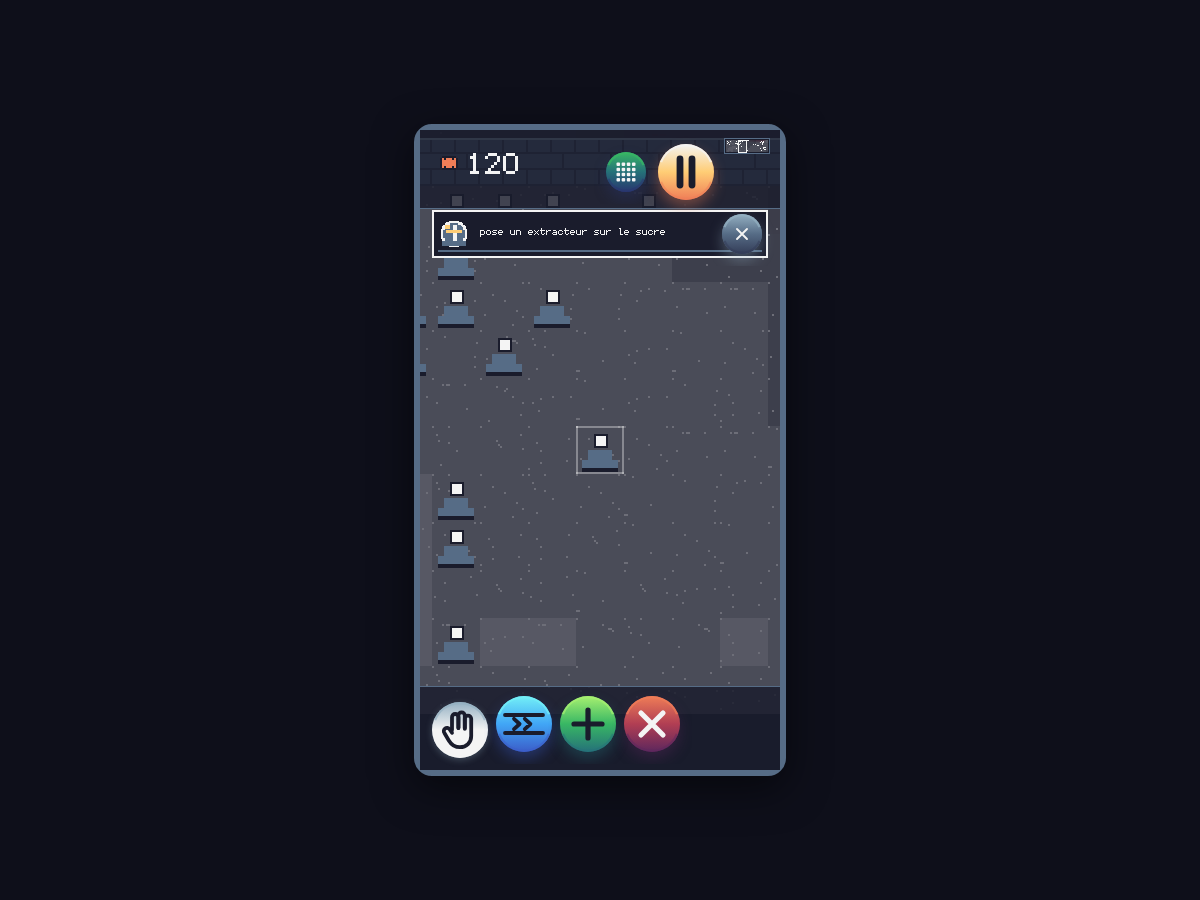
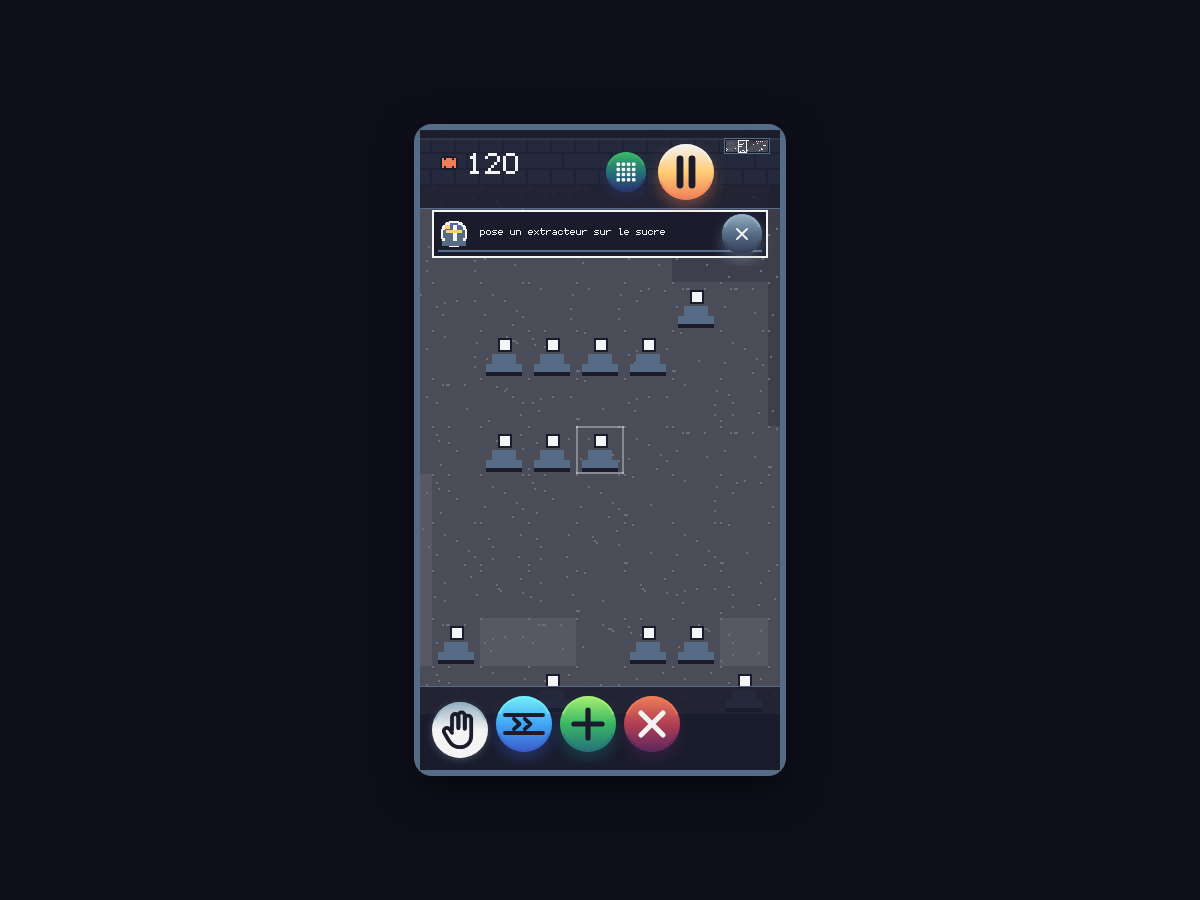
Le doigt trace depuis ce qui est bâti, et le navigateur ne prend plus rien
**Un glissé qui part d'un bâtiment tire un tapis**, la main au repos comme
l'outil convoyeur en poche : c'est la seule chose qu'on ait à faire d'une
machine, et demander l'outil d'abord était un aller-retour de plus vers la
barre du bas. L'outil suit le doigt — la touche du convoyeur s'enfonce au
moment où le tapis naît, sinon la barre mentirait. La main ne tire donc le
monde que depuis le sol nu ; poser et détruire restent à l'écart.

**Tout geste appartient au jeu.** Chaque navigateur en réclamait quelques-uns,
et ils tombaient au pire moment : la loupe d'iOS ou le menu « copier »
d'Android sur un appui long qui devait ouvrir un panneau, la page qui grossit
sous une pince, la page qui se recharge sous un doigt qui descend, la
recherche rapide de Firefox par-dessus le jeu. Ils sont refusés en deux
endroits et pas un de plus : la feuille de style pour la sélection, la loupe,
le surlignage du toucher et le rebond du défilement ; `input/pointer.js` pour
le menu contextuel, le tiré-lâché, le double-clic, la pince d'iOS et les
touches qui ouvrent une recherche ou font défiler. Ce qui garde son
modificateur reste à l'adulte : Ctrl+F et F12 ne sont pas volés.
Claude-Session: https://claude.ai/code/session_01L2bQMycAsarP9yexQHaXSE

diff --git a/src/input/pointer.js b/src/input/pointer.js
@@ -799,6 +799,16 @@ export function brancherPointeur(canvas, vue, jeu) {
   // rester en mode « pose » faisait bâtir une confiserie au premier doigt
   // posé sur la carte. Le convoyeur, lui, ne rend pas la main : on en trace
   // dix de suite, c'est tout l'intérêt du geste.
+  // Un tracé qui part de ce qui est bâti prend le convoyeur : l'outil suit le
+  // doigt, comme pour un appui court. La touche s'enfonce donc au moment où le
+  // tapis naît — sans ça, on aurait tracé en main, et la barre aurait menti.
+  function prendreLeConvoyeur() {
+    if (etat.outil === 'convoyeur') return;
+    etat.outil = 'convoyeur';
+    fermerMenu();
+    majBoutons();
+  }
+
   function rendreLaMain() {
     etat.outil = 'main';
     fermerMenu();
@@ -943,9 +953,13 @@ export function brancherPointeur(canvas, vue, jeu) {
       }
     }
 
-    // Le tracé est le geste du convoyeur, et de lui seul. En main on regarde,
-    // en construction on pose : ni l'un ni l'autre ne tire un tapis.
-    if (etat.outil !== 'convoyeur') return;
+    // Le tracé est le geste du convoyeur — et de tout ce qui est bâti. Un
+    // doigt qui part d'une machine ou d'un tapis tire un tapis, même la main
+    // au repos : c'est la seule chose qu'on ait à faire d'une machine, et
+    // demander l'outil d'abord était un aller-retour de plus vers la barre du
+    // bas. **En main, le doigt ne tire donc le monde que depuis le sol nu.**
+    // Poser et détruire s'en tiennent à l'écart, comme toujours.
+    if (etat.outil !== 'convoyeur' && etat.outil !== 'main') return;
 
     const convoyeur = convoyeurEn(scene(), c.cx, c.cy);
     if (convoyeur) {
@@ -960,6 +974,7 @@ export function brancherPointeur(canvas, vue, jeu) {
       // arrêté. Sur un tapis qui distribue déjà, ou en plein milieu : on en
       // fait partir une branche de plus.
       if (auBout && !convoyeur.cible && convoyeur.sorties.length === 0) {
+        prendreLeConvoyeur();
         trace.actif = true;
         trace.source = convoyeur.source;
         trace.chemin = [];
@@ -971,6 +986,7 @@ export function brancherPointeur(canvas, vue, jeu) {
         return;
       }
       if (!auBout || convoyeur.sorties.length > 0) {
+        prendreLeConvoyeur();
         trace.actif = true;
         trace.source = convoyeur;
         trace.chemin = [];
@@ -984,6 +1000,7 @@ export function brancherPointeur(canvas, vue, jeu) {
 
     const machine = machineEn(scene(), c.cx, c.cy);
     if (!machine || !aUneSortie(machine)) return;
+    prendreLeConvoyeur();
     trace.actif = true;
     trace.source = machine;
     trace.chemin = [];
@@ -1158,19 +1175,55 @@ export function brancherPointeur(canvas, vue, jeu) {
 
   majBoutons();
   majMenuPause();
-  // iOS ignore `user-scalable=no` depuis dix ans : sans ça, deux doigts font
-  // grossir la page elle-même, et c'est ce qu'on prenait pour un zoom du jeu.
-  // Les événements de geste ne sont émis que là, et seulement sur le document.
-  for (const geste of ['gesturestart', 'gesturechange', 'gestureend']) {
-    document.addEventListener(geste, (e) => e.preventDefault(), { passive: false });
-  }
+  refuserLesGestesDuNavigateur();
 
   canvas.addEventListener('pointerdown', debut);
   canvas.addEventListener('pointermove', deplacement);
   canvas.addEventListener('pointerup', fin);
   canvas.addEventListener('pointercancel', fin);
   canvas.addEventListener('lostpointercapture', () => { lacherTouche(); relacher(); });
-  canvas.addEventListener('contextmenu', (e) => e.preventDefault());
 
   return etat;
+}
+
+// --- ce que le navigateur voudrait faire du doigt -------------------------
+//
+// Le jeu se joue au pouce, en plein écran, et **tout geste appartient au jeu**.
+// Or chaque navigateur en réclame quelques-uns pour lui, et ils tombent tous
+// au pire moment : un appui long qui devait ouvrir un panneau fait sortir la
+// loupe d'iOS ou le menu « copier » d'Android, une pince fait grossir la page
+// au lieu de reculer la vue, un doigt qui glisse vers le bas recharge la page,
+// une touche fait apparaître la recherche rapide de Firefox par-dessus le jeu.
+//
+// Aucun d'eux n'est utile ici : il n'y a pas un mot à sélectionner, pas un
+// lien à ouvrir, rien à chercher dans la page. On les refuse donc tous, et la
+// feuille de style refuse le reste — sélection, loupe, surlignage du toucher,
+// rebond du défilement (voir `index.html` et `preview.html`).
+//
+// C'est le seul endroit du jeu qui parle au navigateur.
+function refuserLesGestesDuNavigateur() {
+  const sans = (e) => e.preventDefault();
+  // La pince d'iOS, qui ignore `user-scalable=no` depuis dix ans. Ces
+  // événements-là ne sont émis que sur le document.
+  for (const geste of ['gesturestart', 'gesturechange', 'gestureend']) {
+    document.addEventListener(geste, sans, { passive: false });
+  }
+  // Le menu contextuel : appui long au doigt, clic droit à la souris.
+  document.addEventListener('contextmenu', sans);
+  // La sélection et le tiré-lâché : il n'y a ni texte à prendre ni image à
+  // déposer ailleurs, et c'est ce qui déclenche la loupe et « rechercher ».
+  document.addEventListener('selectstart', sans);
+  document.addEventListener('dragstart', sans);
+  // Le double-clic sélectionne un mot, et double-taper zoome.
+  document.addEventListener('dblclick', sans);
+  // La recherche rapide de Firefox — « / » et « ' » — et les touches qui font
+  // défiler une page. Le jeu n'écoute aucune touche : rien de ce qui est
+  // refusé ici ne lui manque. Les raccourcis du navigateur, eux, gardent leur
+  // modificateur : Ctrl+F et F12 restent à l'adulte qui regarde.
+  const volees = new Set(["/", "'", ' ', 'PageUp', 'PageDown', 'Home', 'End',
+    'ArrowUp', 'ArrowDown', 'ArrowLeft', 'ArrowRight']);
+  document.addEventListener('keydown', (e) => {
+    if (e.ctrlKey || e.metaKey || e.altKey) return;
+    if (volees.has(e.key)) e.preventDefault();
+  });
 }

diff --git a/preview.html b/preview.html
@@ -2,13 +2,19 @@
 <html lang="fr">
 <head>
 <meta charset="utf-8">
-<meta name="viewport" content="width=device-width, initial-scale=1">
+<meta name="viewport" content="width=device-width, initial-scale=1, user-scalable=no">
 <title>Usine — aperçu</title>
 <style>
   :root { --noir: #1a1c2c; --ardoise: #566c86; }
-  html, body { margin: 0; height: 100%; background: #0e0f1a; overflow: hidden; }
+  /* Mêmes refus que la cible mobile : un aperçu ouvert sur un téléphone se
+     joue au doigt lui aussi, et la souris a les mêmes mauvaises habitudes —
+     sélection, menu contextuel, tiré-lâché. */
+  html, body { margin: 0; height: 100%; background: #0e0f1a; overflow: hidden;
+               overscroll-behavior: none; touch-action: none; }
   body { display: flex; align-items: center; justify-content: center;
-         touch-action: none; -webkit-user-select: none; user-select: none; }
+         -webkit-user-select: none; user-select: none;
+         -webkit-touch-callout: none;
+         -webkit-tap-highlight-color: transparent; }
   /* Même jeu, même canvas : seuls le conteneur et le facteur d'échelle changent. */
   /* La coque se ferme sur l'écran : `data-epouse` demande au rendu de rendre
      au cadre la taille exacte du jeu, une fois l'échelle entière choisie.
@@ -20,7 +26,7 @@
   /* touch-action n'est pas héritée : sans ça le navigateur peut réclamer
      le geste pour lui (zoom, panoramique) et annuler nos événements. */
   canvas { image-rendering: pixelated; image-rendering: crisp-edges; display: block;
-           touch-action: none; }
+           touch-action: none; -webkit-user-drag: none; user-select: none; }
 </style>
 </head>
 <body>

diff --git a/index.html b/index.html
@@ -6,15 +6,21 @@
 <title>Usine</title>
 <style>
   :root { --noir: #1a1c2c; }
-  html, body { margin: 0; height: 100%; background: var(--noir); overflow: hidden; }
+  /* Tout geste appartient au jeu : le navigateur n'en prend aucun. La
+     sélection, la loupe d'un appui long, le surlignage du toucher, le rebond
+     du défilement et le tiré-lâché sont refusés ici ; `input/pointer.js`
+     refuse ce qui ne se dit qu'en JavaScript. */
+  html, body { margin: 0; height: 100%; background: var(--noir); overflow: hidden;
+               overscroll-behavior: none; touch-action: none; }
   body { display: flex; align-items: center; justify-content: center;
-         touch-action: none; -webkit-user-select: none; user-select: none;
+         -webkit-user-select: none; user-select: none;
+         -webkit-touch-callout: none;
          -webkit-tap-highlight-color: transparent; }
   #scene { width: 100%; height: 100%; display: flex; align-items: center; justify-content: center; }
   /* touch-action n'est pas héritée : sans ça le navigateur peut réclamer
      le geste pour lui (zoom, panoramique) et annuler nos événements. */
   canvas { image-rendering: pixelated; image-rendering: crisp-edges; display: block;
-           touch-action: none; }
+           touch-action: none; -webkit-user-drag: none; user-select: none; }
 </style>
 </head>
 <body>

diff --git a/CLAUDE.md b/CLAUDE.md
@@ -219,6 +219,13 @@ Ne pas rediscuter ces points sans me le demander explicitement.
   glisser est le geste même. Tirer la carte n'est donc jamais un appui court,
   et c'est vrai aussi de la destruction : on retire une case au doigt posé,
   jamais une traînée sous un doigt qui promène la vue.
+  **Sauf s'il part de ce qui est bâti** : un glissé qui commence sur une
+  machine, un extracteur ou un tapis tire un tapis, la main au repos comme
+  l'outil convoyeur en poche — c'est la seule chose qu'on ait à faire d'une
+  machine, et demander l'outil d'abord était un aller-retour de plus vers la
+  barre du bas. L'outil suit alors le doigt : la touche du convoyeur s'enfonce
+  au moment où le tapis naît, sinon la barre mentirait. **La main ne tire donc
+  le monde que depuis le sol nu**, et poser et détruire restent à l'écart.
 - **Un bâtiment posé rend la main.** C'est l'inverse de ce qui était décidé —
   « l'élément choisi le reste », pour en poser dix d'affilée — et c'est une
   décision qui a changé : on pose un bâtiment, puis on tire ses tapis, et
@@ -420,10 +427,12 @@ neuf gestes sur dix, et il coûtait aussi cher qu'une plieuse — ouvrir le menu
 viser sa rangée, la toucher. Les six bâtiments restent derrière
 « construction », qui n'ouvre plus un menu que pour eux.
 
-**Le tracé est le geste du convoyeur, et de lui seul.** En main on regarde, en
-construction on pose : ni l'un ni l'autre ne tire un tapis. Pendant un tracé,
-arriver au bord de la fenêtre fait défiler tout seul, pour qu'un convoyeur
-traverse deux écrans sans que le doigt se lève.
+**Le tracé est le geste du convoyeur — et de tout ce qui est bâti.** En
+construction on pose, en destruction on retire : ni l'un ni l'autre ne tire un
+tapis. La main, elle, tire le monde depuis le sol nu et un tapis depuis une
+machine : c'est le même doigt, et c'est ce qu'il touche qui décide. Pendant un
+tracé, arriver au bord de la fenêtre fait défiler tout seul, pour qu'un
+convoyeur traverse deux écrans sans que le doigt se lève.
 
 **Un cran de recul, et un seul.** Une touche du second rang, à côté de la
 mini-carte, éloigne la vue : la cellule passe de 48 à 24 et la fenêtre montre
@@ -934,6 +943,18 @@ tient pas deux fois 640 de haut, l'aperçu est un vrai téléphone de 360 × 640
 
 Les événements pointeur sont unifiés (Pointer Events) : la souris produit
 exactement les mêmes gestes que le doigt, tracé de convoyeur compris.
+
+**Tout geste appartient au jeu, et le navigateur n'en prend aucun.** Chacun en
+réclame quelques-uns pour lui, et ils tombent tous au pire moment : un appui
+long qui devait ouvrir un panneau fait sortir la loupe d'iOS ou le menu
+« copier » d'Android, une pince fait grossir la page au lieu de reculer la vue,
+un doigt qui glisse vers le bas recharge la page, une touche fait apparaître la
+recherche rapide de Firefox par-dessus le jeu. Aucun n'est utile ici : il n'y a
+pas un mot à sélectionner, pas un lien à ouvrir, rien à chercher dans la page.
+Ils sont donc tous refusés — la feuille de style pour la sélection, la loupe,
+le surlignage du toucher et le rebond du défilement ; `input/pointer.js` pour
+le reste, en un seul endroit. Ce qui garde son modificateur reste à l'adulte :
+Ctrl+F et F12 ne sont pas volés.
 
 Six outils gardent le jeu, et ils tournent avant toute livraison :
 `outils/tapis.mjs` pour les convoyeurs, `outils/lisibilite.mjs` pour ce qui se
